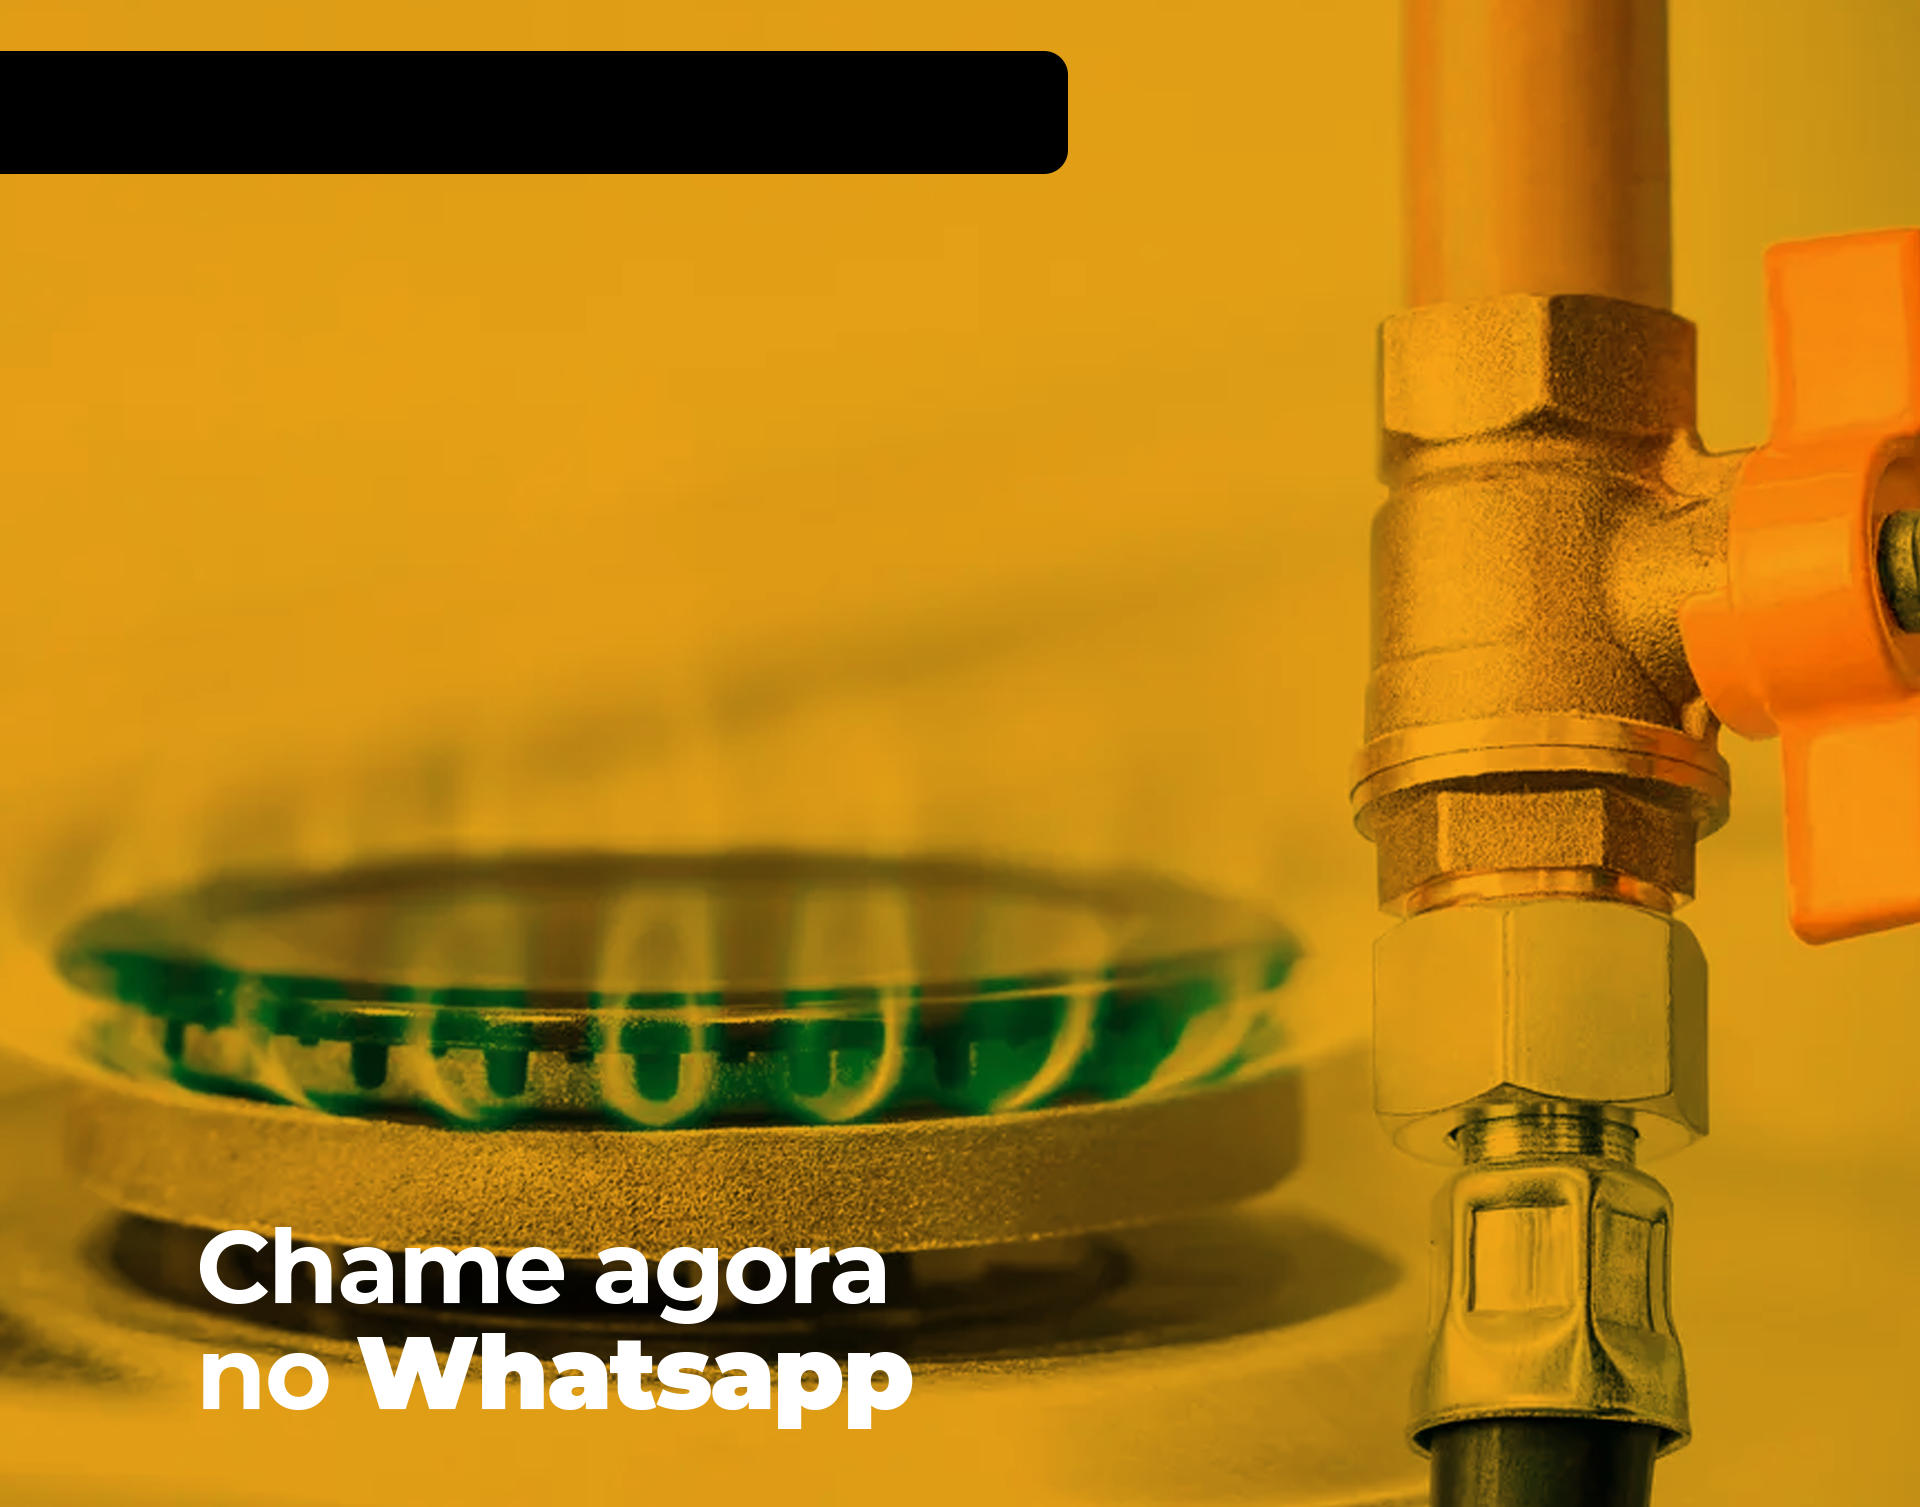
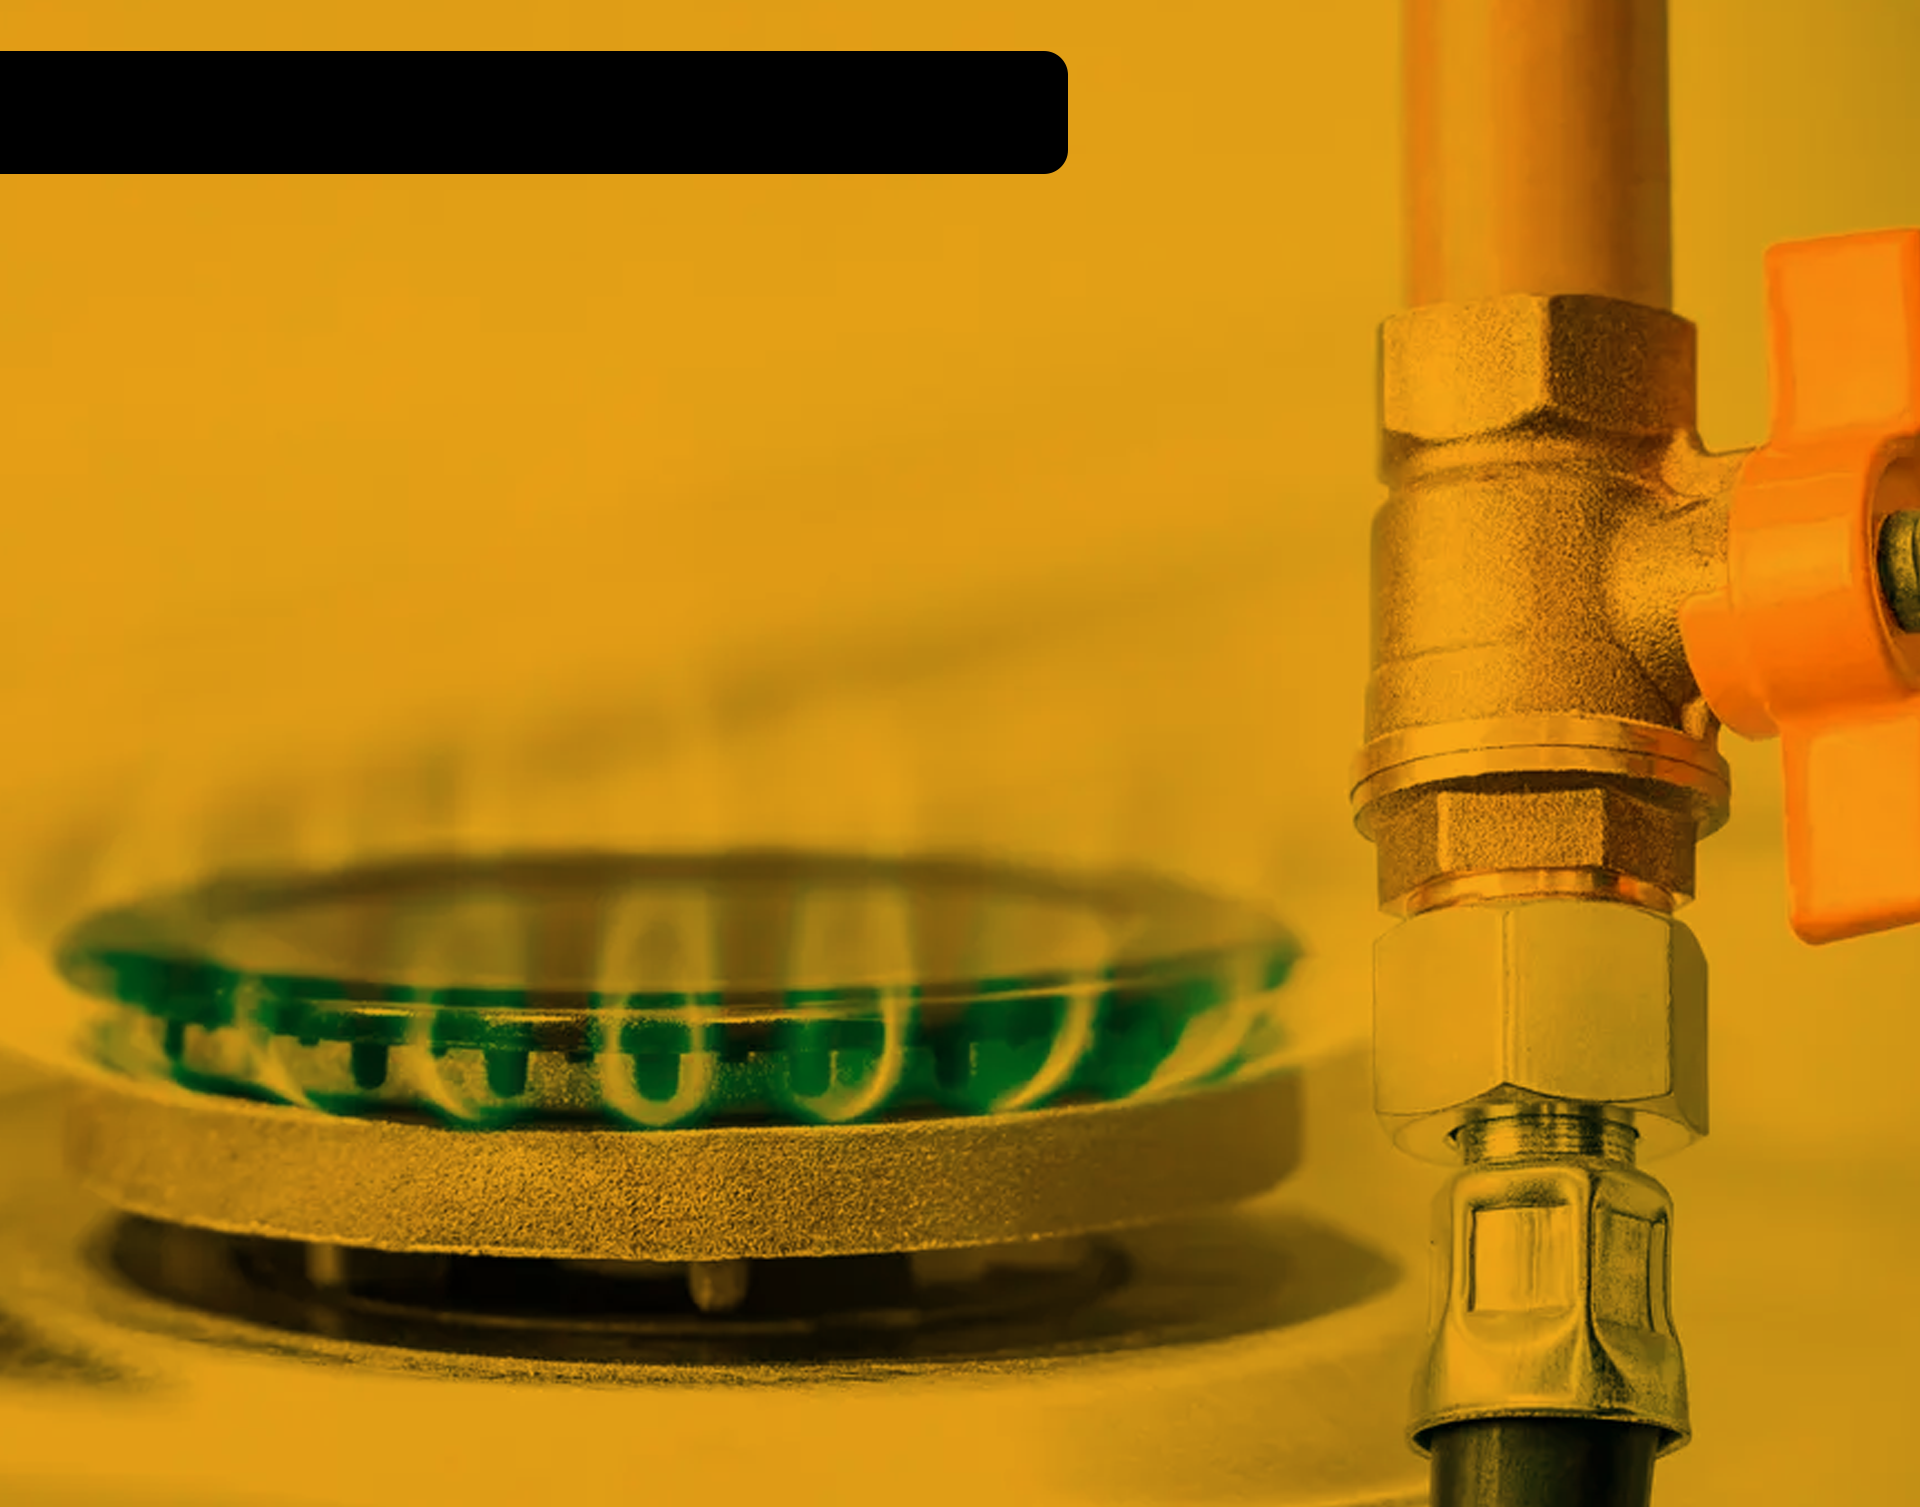
feat: Redesign WhatsApp CTA with an image button and a new call-to-action phrase, along with a minor header background color adjustment.

Changed region(s): [[0.0938, 0.8109, 0.5, 0.9668]]

diff --git a/index.html b/index.html
@@ -95,15 +95,16 @@
                 <li>INSTALAÇÕES DE REGULADORES E MEDIDORES DE GÁS EM CONDOMÍNIO</li>
             </ul>
         </div>
-        <a href="https://wa.me/XXXXXXXXXXX" class="whatsapp-cta-btn" target="_blank">
-            <div class="wa-icon-box">
-                <svg viewBox="0 0 448 512" width="24" height="24">
-                    <path fill="#25D366"
-                        d="M380.9 97.1C339 55.1 283.2 32 223.9 32c-122.4 0-222 99.6-222 222 0 39.1 10.2 77.3 29.6 111L0 480l117.7-30.9c32.7 17.9 69.4 27.3 107.1 27.3 122.3 0 222-99.6 222-222 0-59.3-23-115.1-65.9-157.1zM223.9 445.2c-33.1 0-65.6-8.9-93.9-25.7l-6.7-4-69.8 18.3 18.7-68.1-4.4-7c-18.4-29.4-28.1-63.3-28.1-98.2 0-101.7 82.8-184.5 184.5-184.5 49.3 0 95.6 19.2 130.4 54.1 34.8 34.9 54 81.2 54 130.4 0 101.7-82.8 184.5-184.5 184.5zm101.2-138.2c-5.5-2.8-32.8-16.2-37.9-18-5.1-1.9-8.8-2.8-12.5 2.8-3.7 5.6-14.3 18-17.6 21.8-3.2 3.7-6.5 4.2-12 1.4-5.5-2.8-23.4-8.6-44.5-27.4-16.4-14.6-27.5-32.8-30.7-38.3-3.2-5.6-.3-8.6 2.5-11.4 2.5-2.5 5.5-6.5 8.3-9.7 2.8-3.2 3.7-5.5 5.5-9.2 1.9-3.7.9-6.9-.5-9.7-1.4-2.8-12.5-30.1-17.1-41.2-4.5-10.8-9.1-9.3-12.5-9.5-3.2-.2-6.9-.2-10.6-.2-3.7 0-9.7 1.4-14.8 6.9-5.1 5.6-19.4 19-19.4 46.3 0 27.3 19.9 53.7 22.6 57.4 2.8 3.7 39.1 59.7 94.8 83.8 13.3 5.7 23.6 9.2 31.7 11.7 13.3 4.2 25.4 3.6 35 2.2 10.7-1.6 32.8-13.4 37.4-26.4 4.6-13 4.6-24.1 3.2-26.4-1.3-2.5-5-3.9-10.5-6.6z" />
-                </svg>
+        <div class="cta-combined-box">
+            <div class="cta-phrase">
+                Solicite agora um<br>
+                Orçamento sem<br>
+                compromisso
             </div>
-            <span class="wa-text">Resolva agora!</span>
-        </a>
+            <a href="https://wa.me/XXXXXXXXXXX" class="whatsapp-cta-image-btn" target="_blank">
+                <img src="img/cta.png" alt="Chame agora no WhatsApp">
+            </a>
+        </div>
     </section>
 
     <!-- Photos Gallery Section -->
@@ -147,14 +148,8 @@
         </div>
         <div class="final-bottom">
             <div class="final-bottom-container">
-                <a href="https://wa.me/XXXXXXXXXXX" class="whatsapp-cta-btn" target="_blank">
-                    <div class="wa-icon-box">
-                        <svg viewBox="0 0 448 512" width="24" height="24">
-                            <path fill="#25D366"
-                                d="M380.9 97.1C339 55.1 283.2 32 223.9 32c-122.4 0-222 99.6-222 222 0 39.1 10.2 77.3 29.6 111L0 480l117.7-30.9c32.7 17.9 69.4 27.3 107.1 27.3 122.3 0 222-99.6 222-222 0-59.3-23-115.1-65.9-157.1zM223.9 445.2c-33.1 0-65.6-8.9-93.9-25.7l-6.7-4-69.8 18.3 18.7-68.1-4.4-7c-18.4-29.4-28.1-63.3-28.1-98.2 0-101.7 82.8-184.5 184.5-184.5 49.3 0 95.6 19.2 130.4 54.1 34.8 34.9 54 81.2 54 130.4 0 101.7-82.8 184.5-184.5 184.5zm101.2-138.2c-5.5-2.8-32.8-16.2-37.9-18-5.1-1.9-8.8-2.8-12.5 2.8-3.7 5.6-14.3 18-17.6 21.8-3.2 3.7-6.5 4.2-12 1.4-5.5-2.8-23.4-8.6-44.5-27.4-16.4-14.6-27.5-32.8-30.7-38.3-3.2-5.6-.3-8.6 2.5-11.4 2.5-2.5 5.5-6.5 8.3-9.7 2.8-3.2 3.7-5.5 5.5-9.2 1.9-3.7.9-6.9-.5-9.7-1.4-2.8-12.5-30.1-17.1-41.2-4.5-10.8-9.1-9.3-12.5-9.5-3.2-.2-6.9-.2-10.6-.2-3.7 0-9.7 1.4-14.8 6.9-5.1 5.6-19.4 19-19.4 46.3 0 27.3 19.9 53.7 22.6 57.4 2.8 3.7 39.1 59.7 94.8 83.8 13.3 5.7 23.6 9.2 31.7 11.7 13.3 4.2 25.4 3.6 35 2.2 10.7-1.6 32.8-13.4 37.4-26.4 4.6-13 4.6-24.1 3.2-26.4-1.3-2.5-5-3.9-10.5-6.6z" />
-                        </svg>
-                    </div>
-                    <span class="wa-text">Resolva agora!</span>
+                <a href="https://wa.me/XXXXXXXXXXX" class="whatsapp-cta-image-btn" target="_blank">
+                    <img src="img/cta.png" alt="Chame agora no WhatsApp">
                 </a>
             </div>
         </div>

diff --git a/style.css b/style.css
@@ -471,11 +471,8 @@ ul {
     color: #000;
 }
 
-/* WhatsApp Button - Global & CTA Section Base */
-.whatsapp-cta-btn {
-    position: absolute;
-    bottom: 60px;
-    left: 55%;
+/* WhatsApp Image Button Base Styles */
+.whatsapp-cta-image-btn {
     display: flex;
     align-items: center;
     text-decoration: none;
@@ -483,57 +480,24 @@ ul {
     z-index: 20;
 }
 
-.whatsapp-cta-btn:hover {
+.whatsapp-cta-image-btn:hover {
     transform: scale(1.08);
 }
 
-.wa-icon-box {
-    background-color: #fff;
-    width: 95px;
-    height: 95px;
-    border-radius: 50%;
-    /* Perfect circle */
-    display: flex;
-    align-items: center;
-    justify-content: center;
-    box-shadow: 0 8px 25px rgba(0, 0, 0, 0.25);
-    position: relative;
-    z-index: 2;
-    margin-right: -25px;
-    /* Overlap to join with the green box */
-}
-
-.wa-icon-box svg {
-    width: 48px;
-    /* Proportional icon */
-    height: 48px;
-}
-
-.wa-text {
-    background-color: #25D366;
-    color: #fff;
-    font-family: 'Outfit', sans-serif;
-    font-size: 2.0rem;
-    font-weight: 800;
-    padding: 0 45px 0 55px;
-    /* Proportional padding */
-    height: 85px;
-    /* Robust but not excessive height */
-    display: flex;
-    align-items: center;
-    border-radius: 0 20px 20px 0;
-    box-shadow: 0 8px 25px rgba(0, 0, 0, 0.2);
-    white-space: nowrap;
+.whatsapp-cta-image-btn img {
+    height: 160px;
+    width: auto;
+    display: block;
 }
 
 @media (max-width: 1024px) {
-    .whatsapp-cta-btn {
+    .whatsapp-cta-image-btn {
         left: 60%;
     }
 }
 
 @media (max-width: 768px) {
-    .whatsapp-cta-btn {
+    .whatsapp-cta-image-btn {
         position: relative;
         bottom: 0;
         left: 0;
@@ -541,15 +505,8 @@ ul {
         justify-content: center;
     }
 
-    .wa-icon-box {
-        width: 50px;
-        height: 50px;
-    }
-
-    .wa-text {
-        font-size: 1.1rem;
-        height: 45px;
-        padding: 0 20px 0 25px;
+    .whatsapp-cta-image-btn img {
+        height: 90px;
     }
 }
 
@@ -750,6 +707,27 @@ ul {
     margin: 0;
 }
 
+.cta-combined-box {
+    position: absolute;
+    bottom: 40px;
+    left: 15%;
+    display: flex;
+    align-items: center;
+    gap: 30px;
+    z-index: 100;
+}
+
+.cta-phrase {
+    color: #ffffff;
+    font-family: 'Outfit', sans-serif;
+    font-size: 3.2rem;
+    font-weight: 800;
+    line-height: 1.1;
+    text-transform: none;
+    letter-spacing: 2px;
+    text-align: right;
+}
+
 .final-text-overlay .whatsapp-cta-btn {
     position: relative;
     bottom: auto;
@@ -782,12 +760,9 @@ ul {
     /* Aligned to left */
 }
 
-.final-bottom-container .whatsapp-cta-btn {
+.final-bottom-container .whatsapp-cta-image-btn {
     position: relative;
-    bottom: auto;
-    left: auto;
     transform: scale(0.9);
-    /* Slightly more prominent */
     transform-origin: center;
 }
 
@@ -812,6 +787,23 @@ ul {
         transform: none;
         padding: 40px 20px;
         background-color: #ff9d00;
+        text-align: center;
+    }
+
+    .cta-combined-box {
+        position: relative;
+        bottom: 0;
+        left: 0;
+        flex-direction: column;
+        align-items: center;
+        gap: 15px;
+        margin-top: 30px;
+        z-index: 10;
+    }
+
+    .cta-phrase {
+        padding: 0 20px;
+        font-size: 1.8rem;
         text-align: center;
     }
 

diff --git a/script.js b/script.js
@@ -42,10 +42,10 @@ document.addEventListener('DOMContentLoaded', () => {
     // Header scroll background effect
     window.addEventListener('scroll', () => {
         if (window.scrollY > 50) {
-            header.style.background = 'rgba(10, 10, 10, 0.95)';
+            header.style.background = '#000000';
             header.style.boxShadow = '0 2px 10px rgba(0,0,0,0.5)';
         } else {
-            header.style.background = 'rgba(10, 10, 10, 0.8)';
+            header.style.background = '#000000';
             header.style.boxShadow = 'none';
         }
     });
